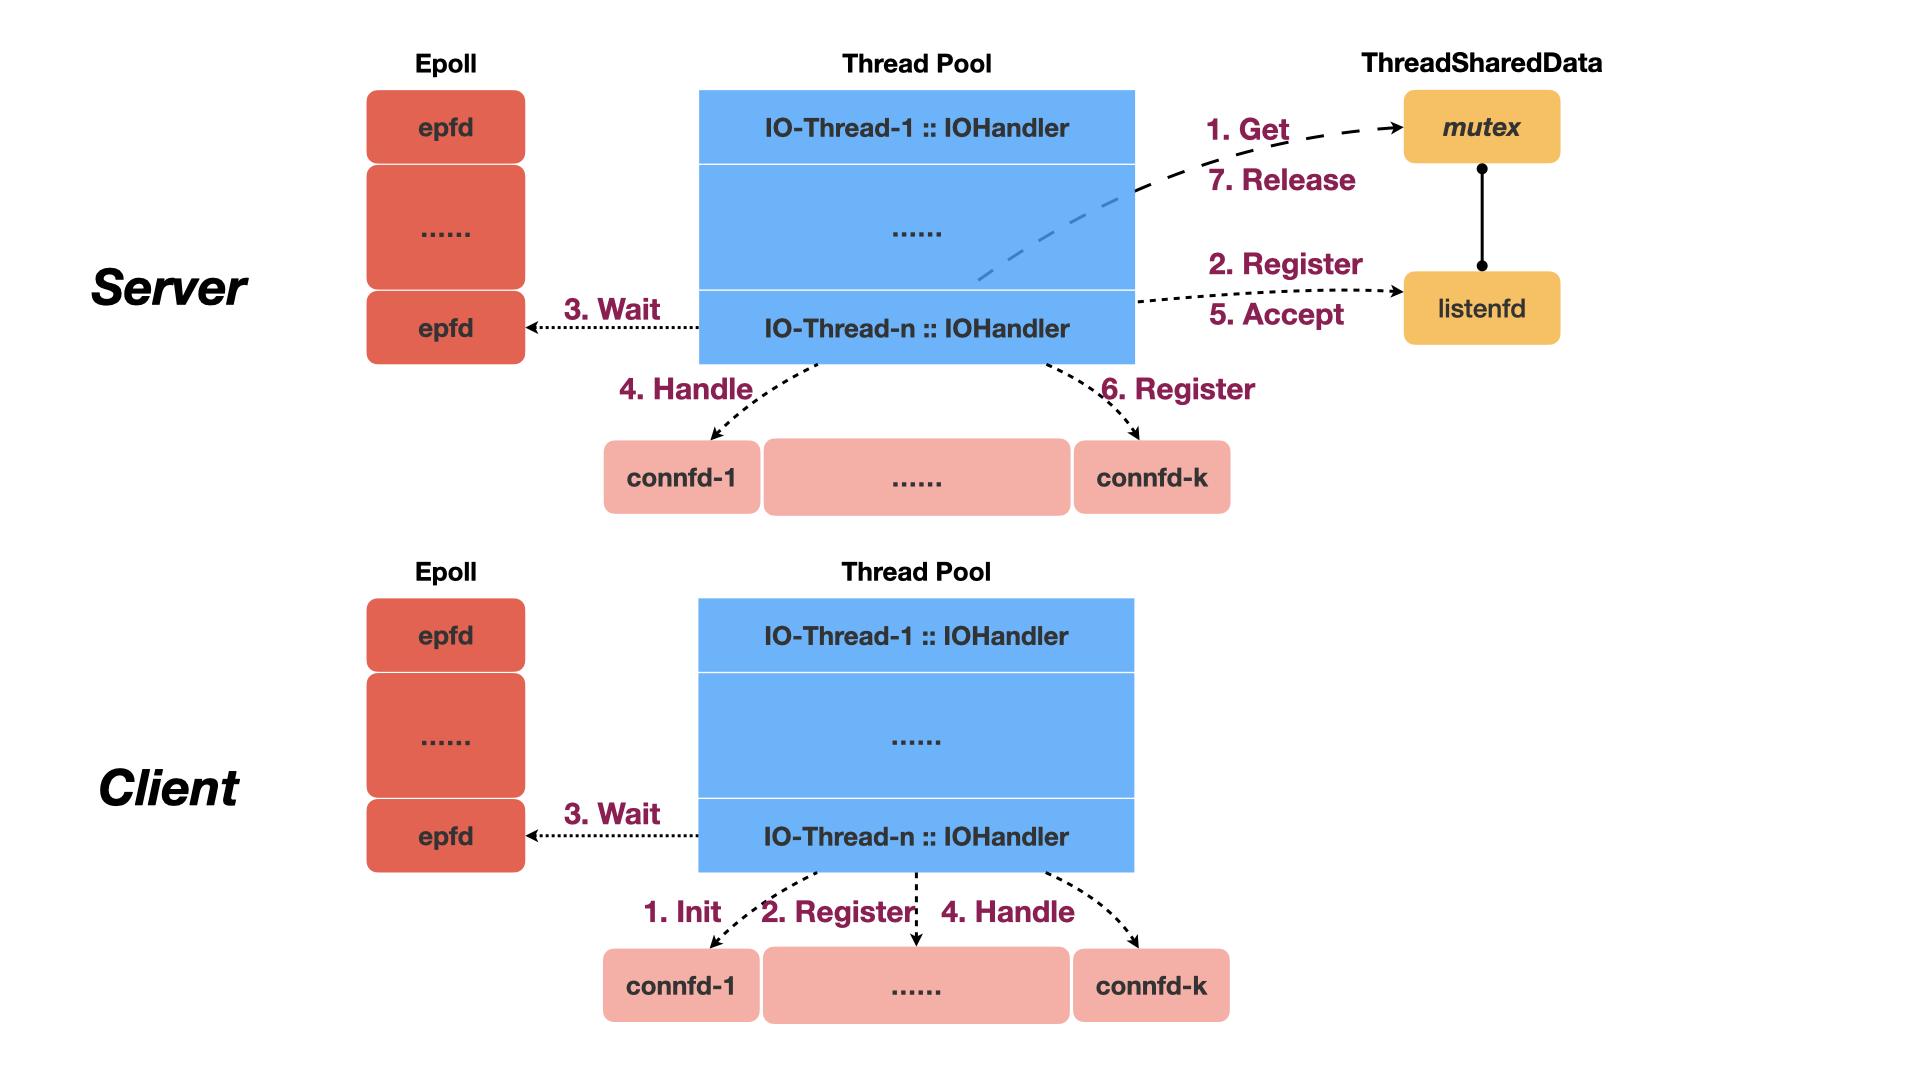
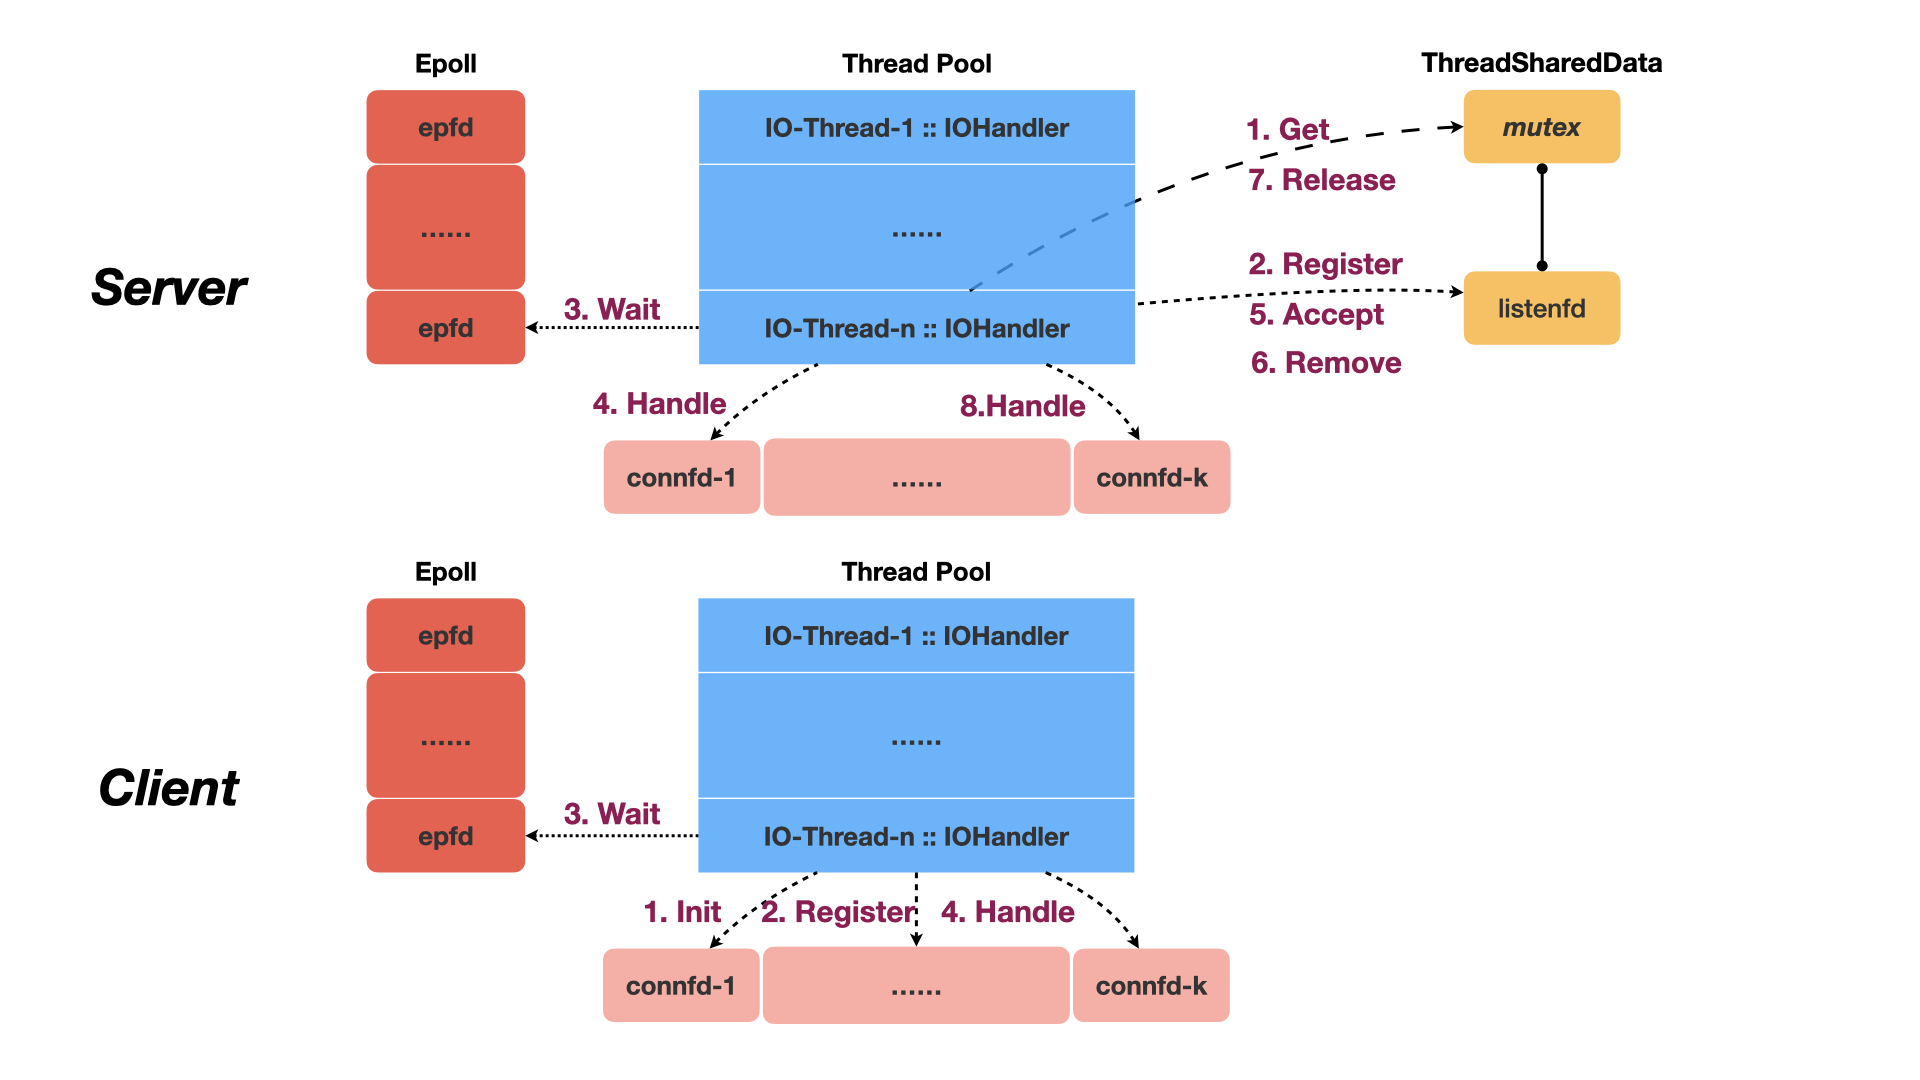
update readme

diff --git a/README.md b/README.md
@@ -28,11 +28,13 @@ EpollTPServer:
 
     4. Handle the connected sockets.
 
-    5. Get a connected socket by accept syscall.
+    5. Get a new connected socket by accept syscall.
 
-    6. Register the connected socket to epoll.
+    6. Remove EPOLLIN for the listening socket.
 
     7. Release the mutex.
+
+    8. Handle the new connected socket.
 
 EpollTPClient:
 
@@ -88,11 +90,13 @@ Async Logger:
 
 * Logger.h: Multi-thread safe logger, using backend thread for asynchrous output, line buffered.
 
-* Buffer.h: Buffer preallocated on heap, NOT thread safe.
+* Buffer.h: IO Buffer preallocated on heap, support nonblock socket and disk fd. NOT thread safe.
 
 * Utils.h: Some utility functions.
 
 # Examples
+
+* [quick_start](https://github.com/GeniusDai/kingpin/tree/dev/examples/quick_start):
 
 * [chinese_chess_game](https://github.com/GeniusDai/kingpin/tree/dev/examples/chinese_chess_game): Chess game server and client, also implement a high concurrency test client.
 
